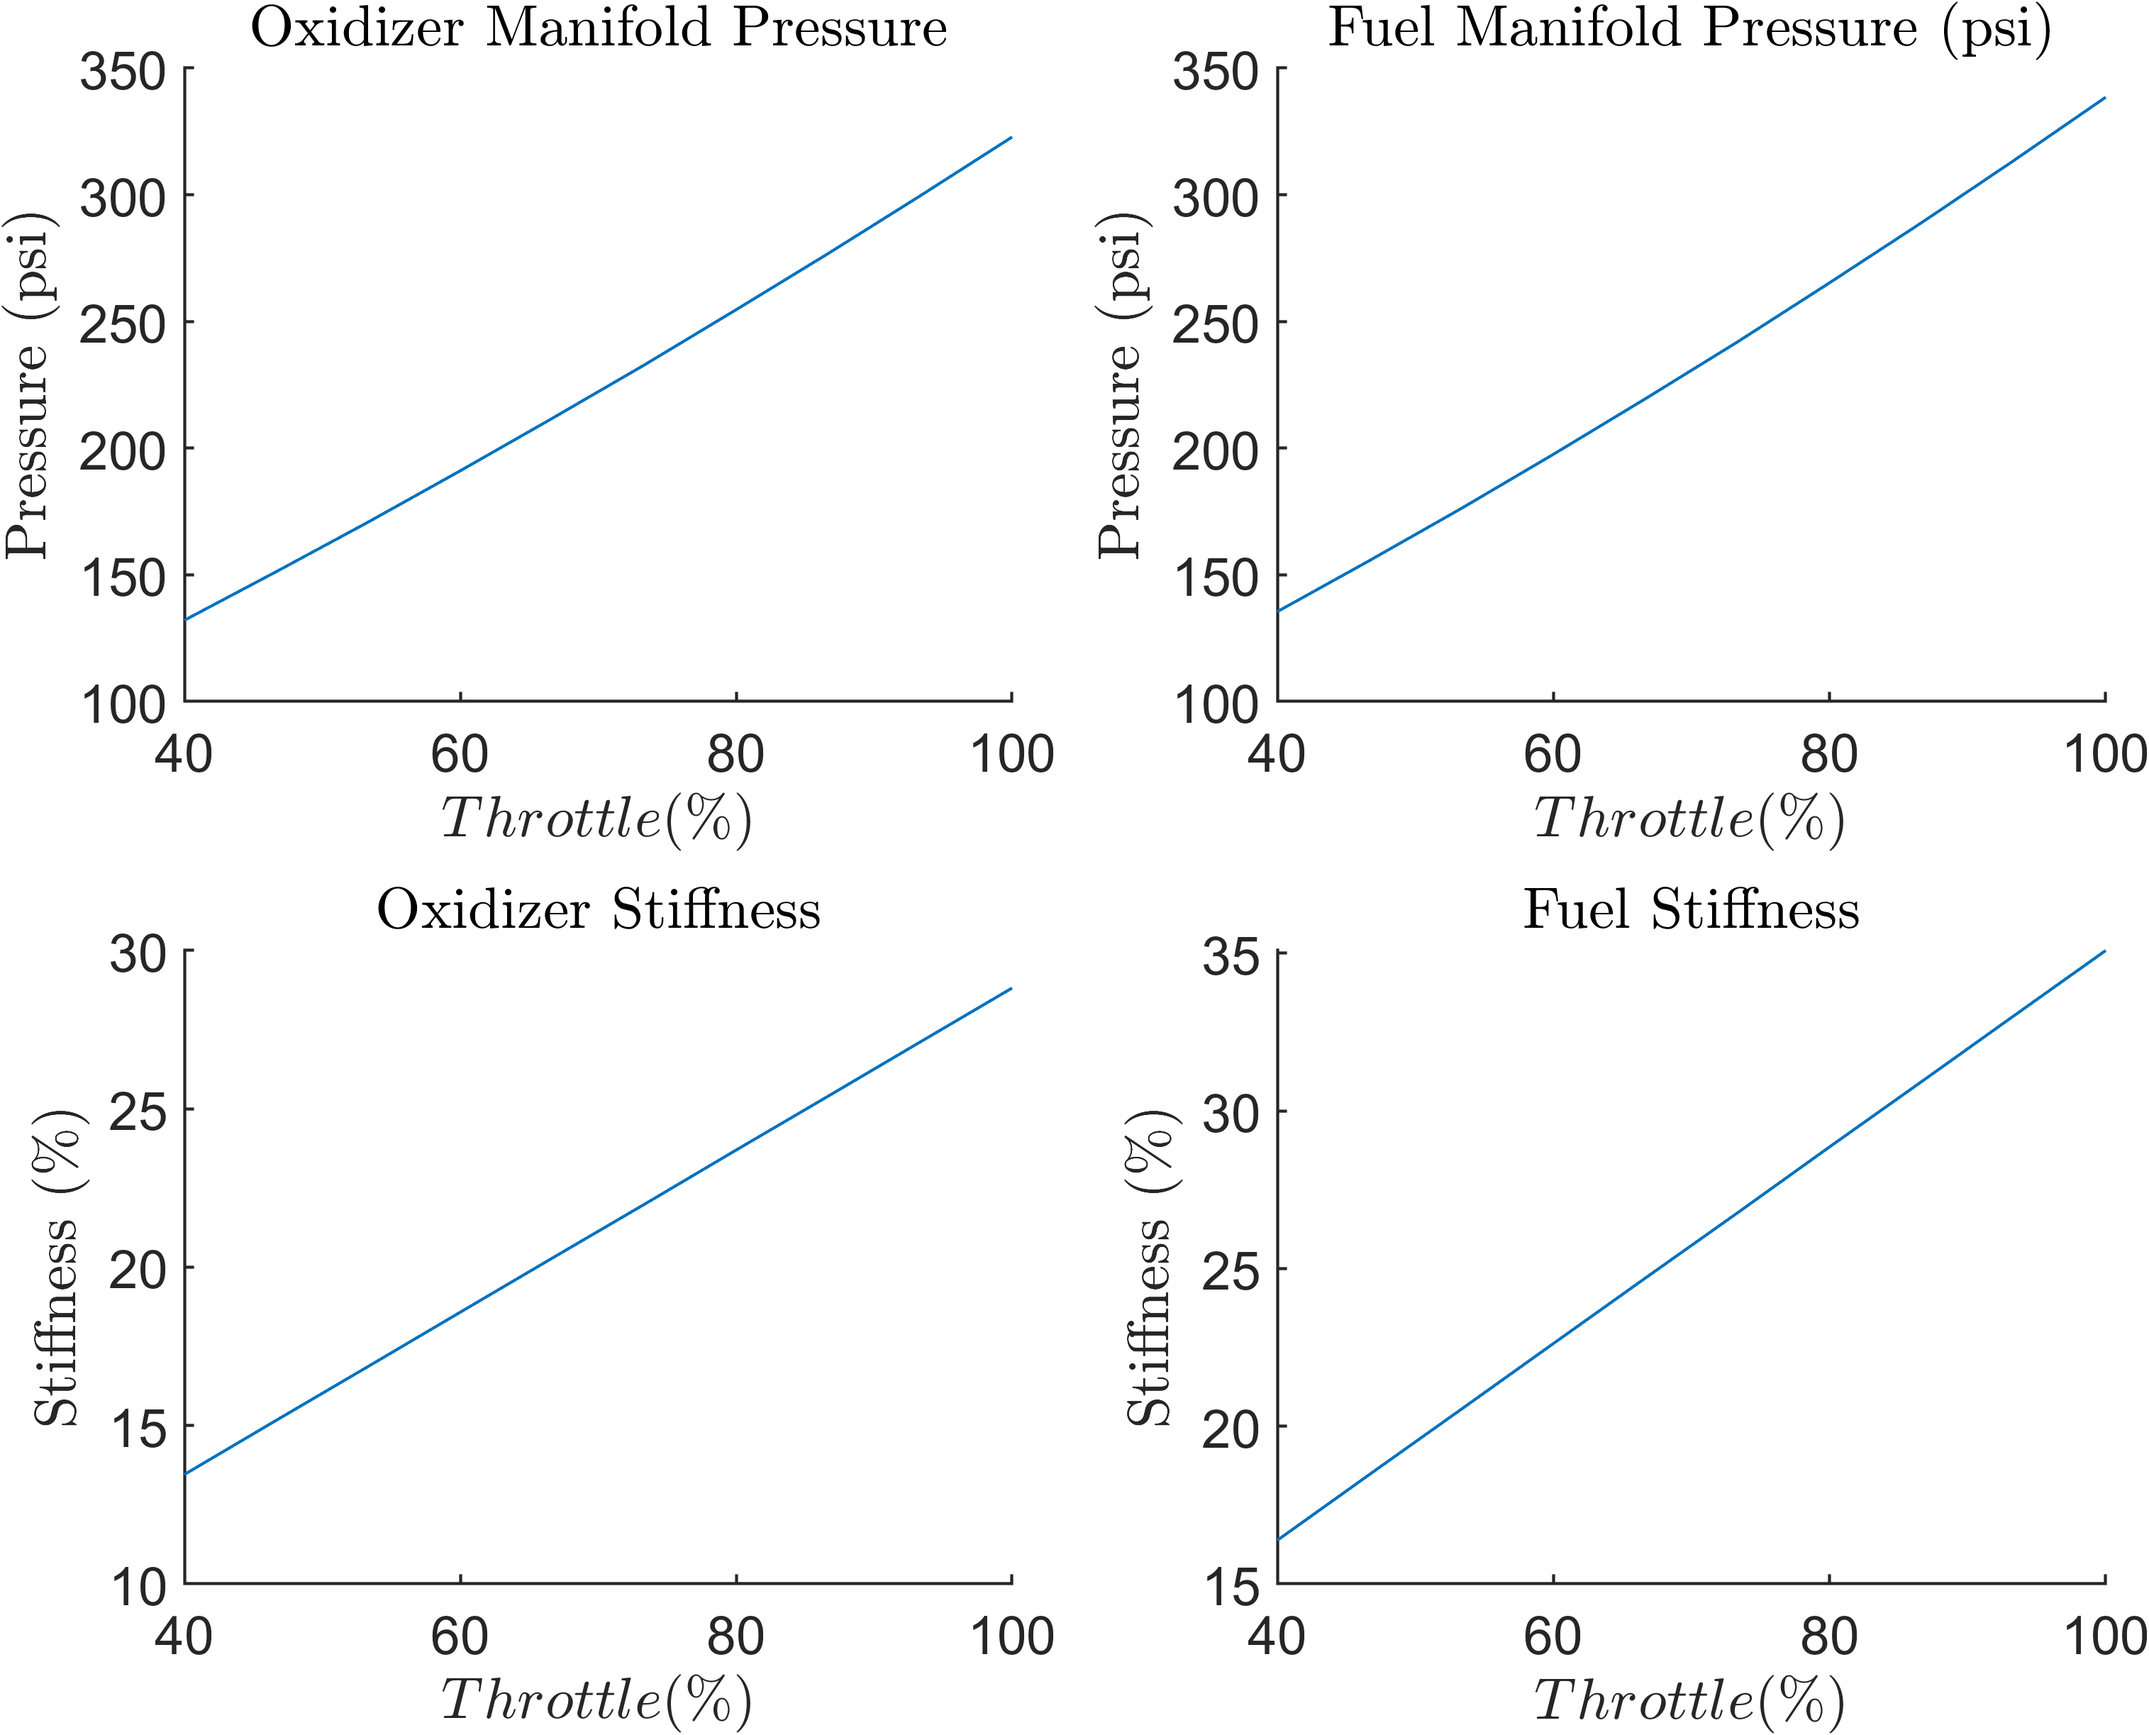
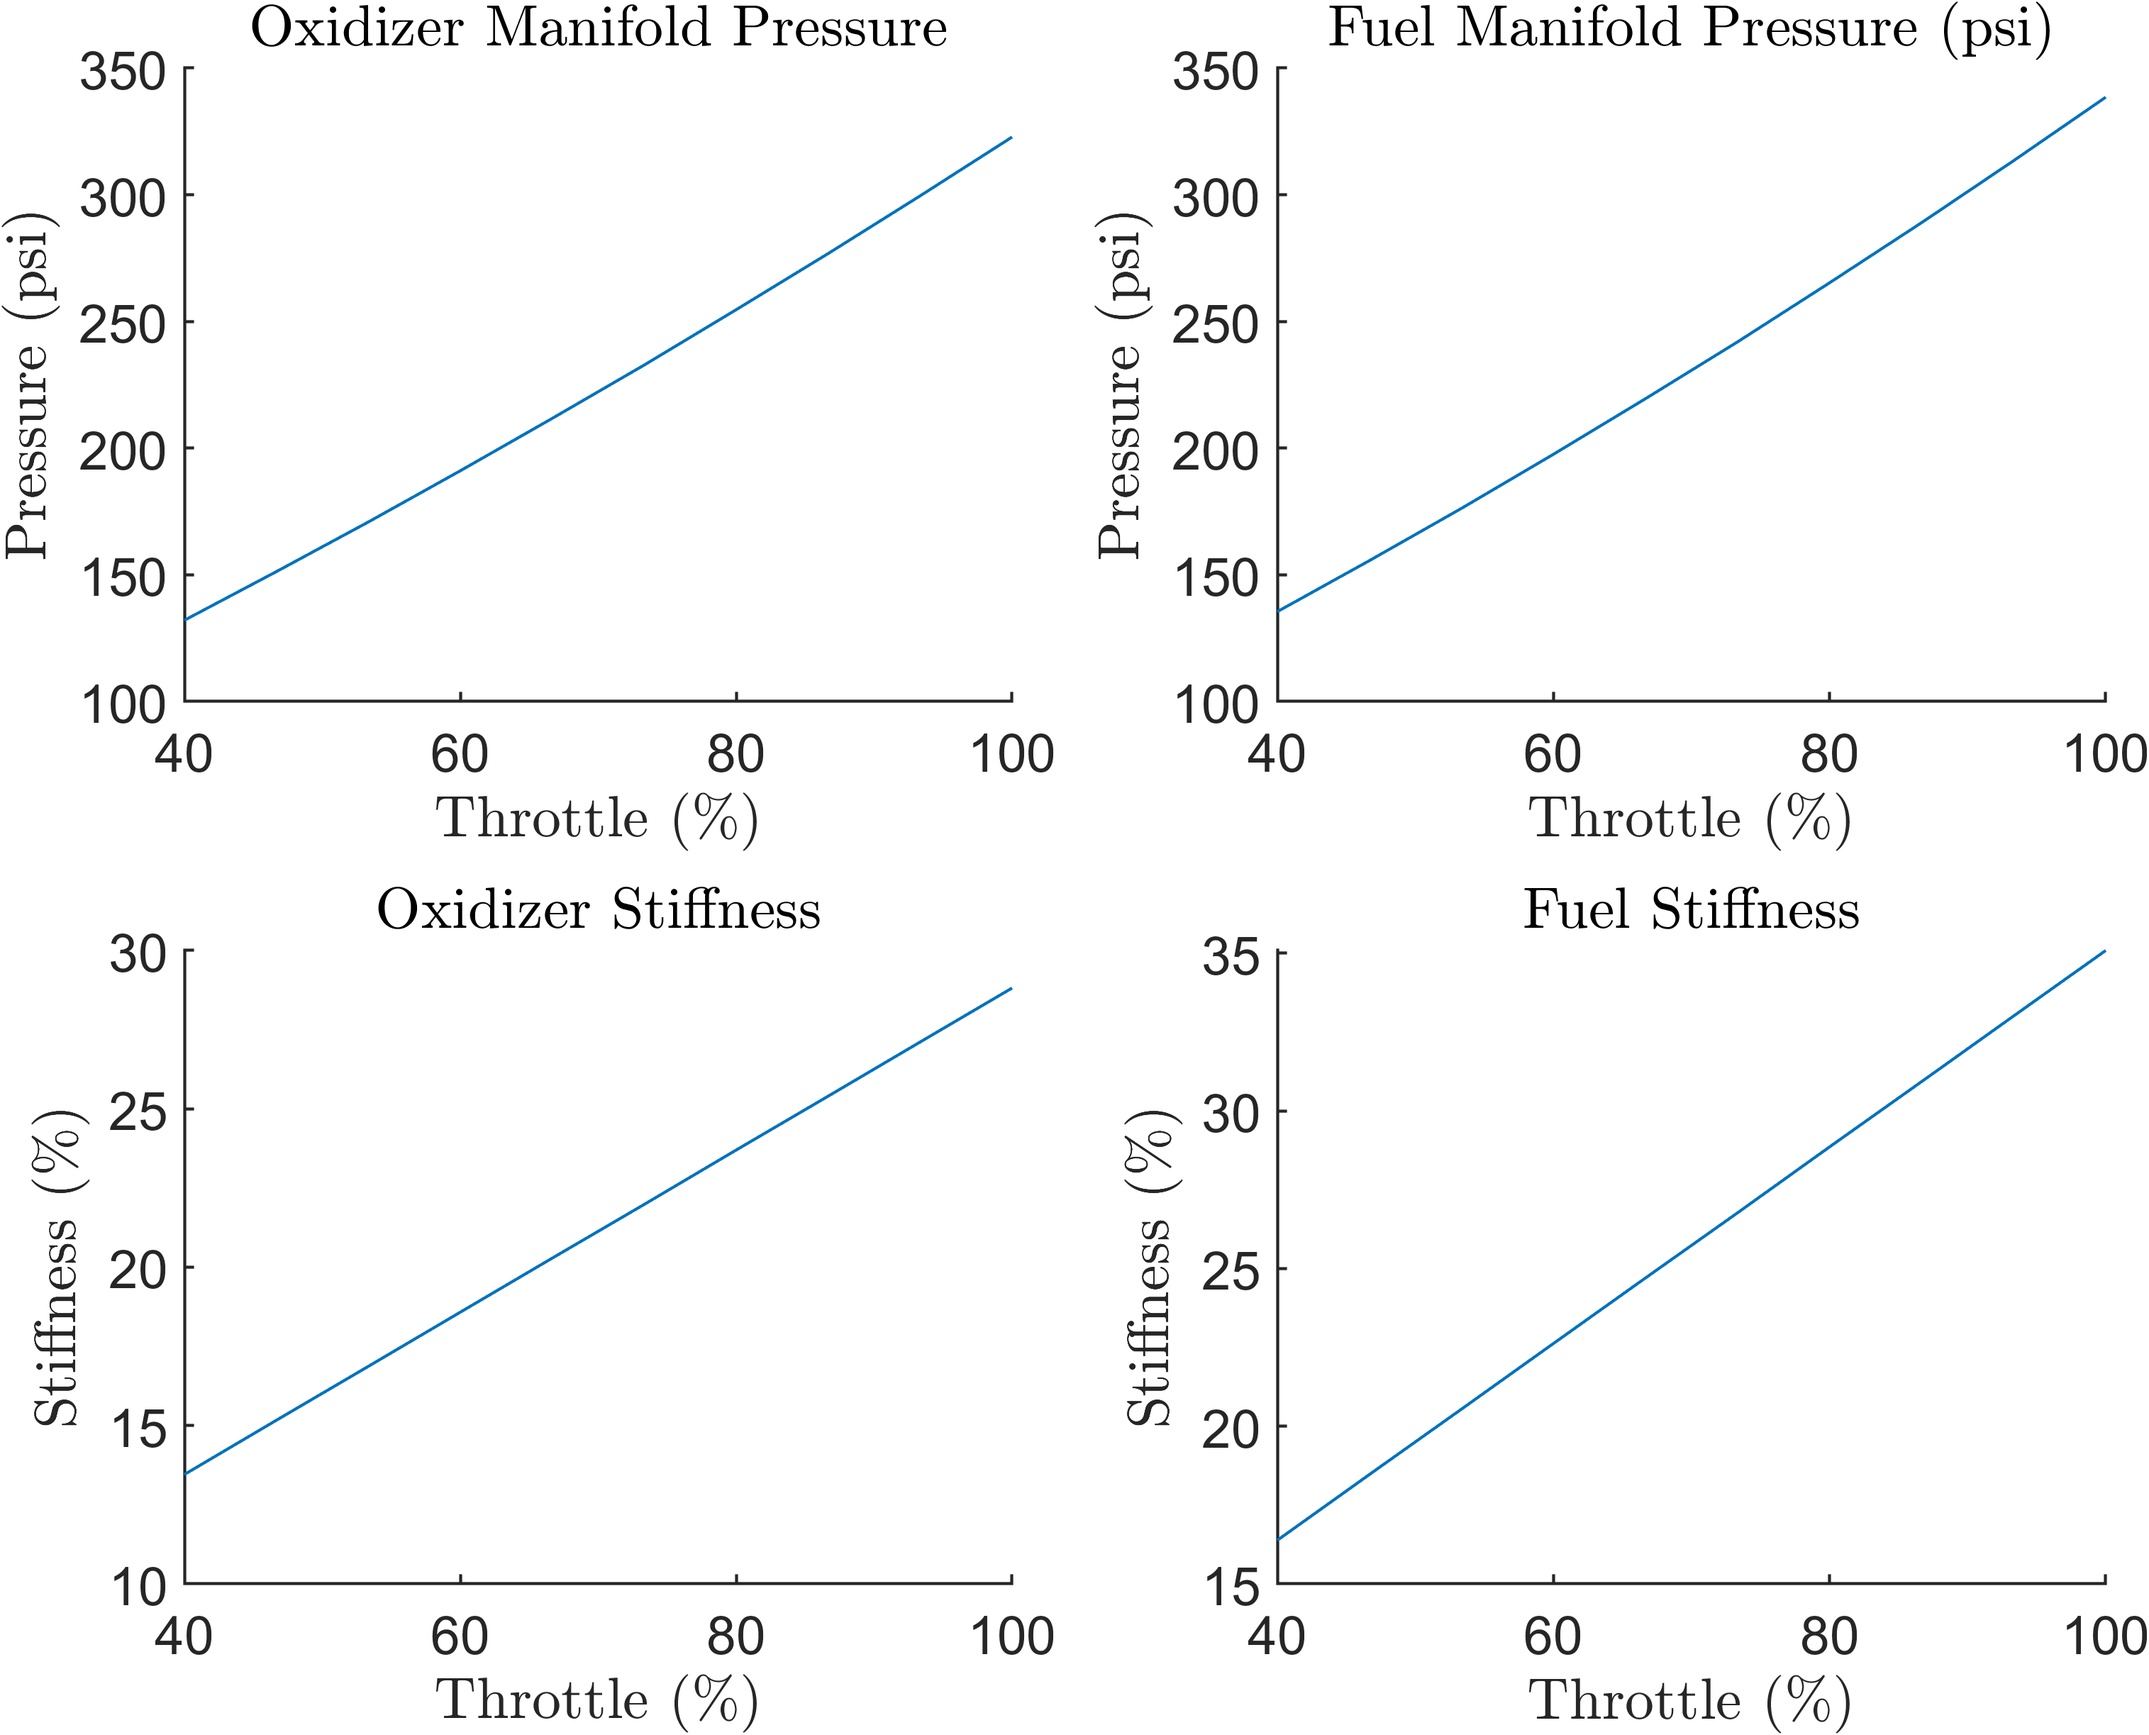
Constant Axes fonts
plot fix

diff --git a/Throttle/Throttle_Full_range.m b/Throttle/Throttle_Full_range.m
@@ -138,7 +138,7 @@ set(gcf,'color','w')
 hAxes.TickLabelInterpreter = 'latex';
 plot(throttle_pct*100, throttle_thrust_actual * 0.224809)
 title("Thrust",'Interpreter','latex')
-xlabel("$$Throttle (\%)$$",'Interpreter','latex')
+xlabel("Throttle $$(\%)$$",'Interpreter','latex')
 ylabel("Thrust (lbf)",'Interpreter','latex')
 
 subplot(2,2,2)
@@ -149,7 +149,7 @@ plot(throttle_pct*100, Pe_throttle)
 plot(throttle_pct*100,P_sep)
 legend('$$P_{e}$$','$$P_{sep}$$','Interpreter','latex','Location','northwest')
 title("Exit Pressure",'Interpreter','latex')
-xlabel("$$Throttle (\%)$$",'Interpreter','latex')
+xlabel("Throttle $$(\%)$$",'Interpreter','latex')
 ylabel("Pressure (Psi)",'Interpreter','latex')
 
 subplot(2,2,3)
@@ -158,7 +158,7 @@ set(gcf,'color','w')
 hAxes.TickLabelInterpreter = 'latex';
 plot(throttle_pct*100, Pc_throttle_actual)
 title("Chamber Pressure",'Interpreter','latex')
-xlabel("$$Throttle (\%)$$",'Interpreter','latex')
+xlabel("Throttle $$(\%)$$",'Interpreter','latex')
 ylabel("Pressure (psi)",'Interpreter','latex')
 
 subplot(2,2,4)
@@ -167,7 +167,7 @@ set(gcf,'color','w')
 hAxes.TickLabelInterpreter = 'latex';
 plot(throttle_pct*100, isp_throttle)
 title("Isp",'Interpreter','latex')
-xlabel("$$Throttle (\%)$$",'Interpreter','latex')
+xlabel("Throttle $$(\%)$$",'Interpreter','latex')
 ylabel("Isp (s)",'Interpreter','latex')
 
 exportgraphics(f,'Chamber_throttle.png','Resolution',600)
@@ -181,7 +181,7 @@ set(gcf,'color','w')
 hAxes.TickLabelInterpreter = 'latex';
 plot(throttle_pct*100, P_OX_manifold)
 title("Oxidizer Manifold Pressure",'Interpreter','latex')
-xlabel("$$Throttle (\%)$$",'Interpreter','latex')
+xlabel("Throttle $$(\%)$$",'Interpreter','latex')
 ylabel("Pressure (psi)",'Interpreter','latex')
 
 subplot(2,2,2)
@@ -190,7 +190,7 @@ set(gcf,'color','w')
 hAxes.TickLabelInterpreter = 'latex';
 plot(throttle_pct*100, P_FUEL_manifold)
 title("Fuel Manifold Pressure (psi)",'Interpreter','latex')
-xlabel("$$Throttle (\%)$$",'Interpreter','latex')
+xlabel("Throttle $$(\%)$$",'Interpreter','latex')
 ylabel("Pressure (psi)",'Interpreter','latex')
 
 subplot(2,2,3)
@@ -199,8 +199,8 @@ set(gcf,'color','w')
 hAxes.TickLabelInterpreter = 'latex';
 plot(throttle_pct*100, OX_stiffness*100)
 title("Oxidizer Stiffness",'Interpreter','latex')
-xlabel("$$Throttle (\%)$$",'Interpreter','latex')
-ylabel("Stiffness (\%)",'Interpreter','latex')
+xlabel("Throttle $$(\%)$$",'Interpreter','latex')
+ylabel("Stiffness $$(\%)$$",'Interpreter','latex')
 
 subplot(2,2,4)
 hold on 
@@ -208,8 +208,8 @@ set(gcf,'color','w')
 hAxes.TickLabelInterpreter = 'latex';
 plot(throttle_pct*100, FUEL_stiffness*100)
 title("Fuel Stiffness",'Interpreter','latex')
-xlabel("$$Throttle (\%)$$",'Interpreter','latex')
-ylabel("Stiffness (\%)",'Interpreter','latex')
+xlabel("Throttle $$(\%)$$",'Interpreter','latex')
+ylabel("Stiffness $$(\%)$$",'Interpreter','latex')
 
 exportgraphics(f,'Injector_throttle.png','Resolution',600)
 
@@ -222,7 +222,7 @@ set(gcf,'color','w')
 hAxes.TickLabelInterpreter = 'latex';
 plot(throttle_pct*100, mdot_throttle_actual)
 title("Total Mass Flow Rate",'Interpreter','latex')
-xlabel("$$Throttle (\%)$$",'Interpreter','latex')
+xlabel("Throttle $$(\%)$$",'Interpreter','latex')
 ylabel("Mass Flow (lbm/s)",'Interpreter','latex')
 
 subplot(2,2,3)
@@ -231,7 +231,7 @@ set(gcf,'color','w')
 hAxes.TickLabelInterpreter = 'latex';
 plot(throttle_pct*100, fuel_massflow_rate)
 title("Fuel Massflow Rate",'Interpreter','latex')
-xlabel("$$Throttle (\%)$$",'Interpreter','latex')
+xlabel("Throttle $$(\%)$$",'Interpreter','latex')
 ylabel("Mass Flow (lbm/s)",'Interpreter','latex')
 
 subplot(2,2,4)
@@ -240,7 +240,7 @@ set(gcf,'color','w')
 hAxes.TickLabelInterpreter = 'latex';
 plot(throttle_pct*100, ox_massflow_rate)
 title("Oxidizer Massflow Rate",'Interpreter','latex')
-xlabel("$$Throttle (\%)$$",'Interpreter','latex')
+xlabel("Throttle $$(\%)$$",'Interpreter','latex')
 ylabel("Mass Flow (lbm/s)",'Interpreter','latex')
 exportgraphics(f,'MassFlow_throttle.png','Resolution',600)
 
